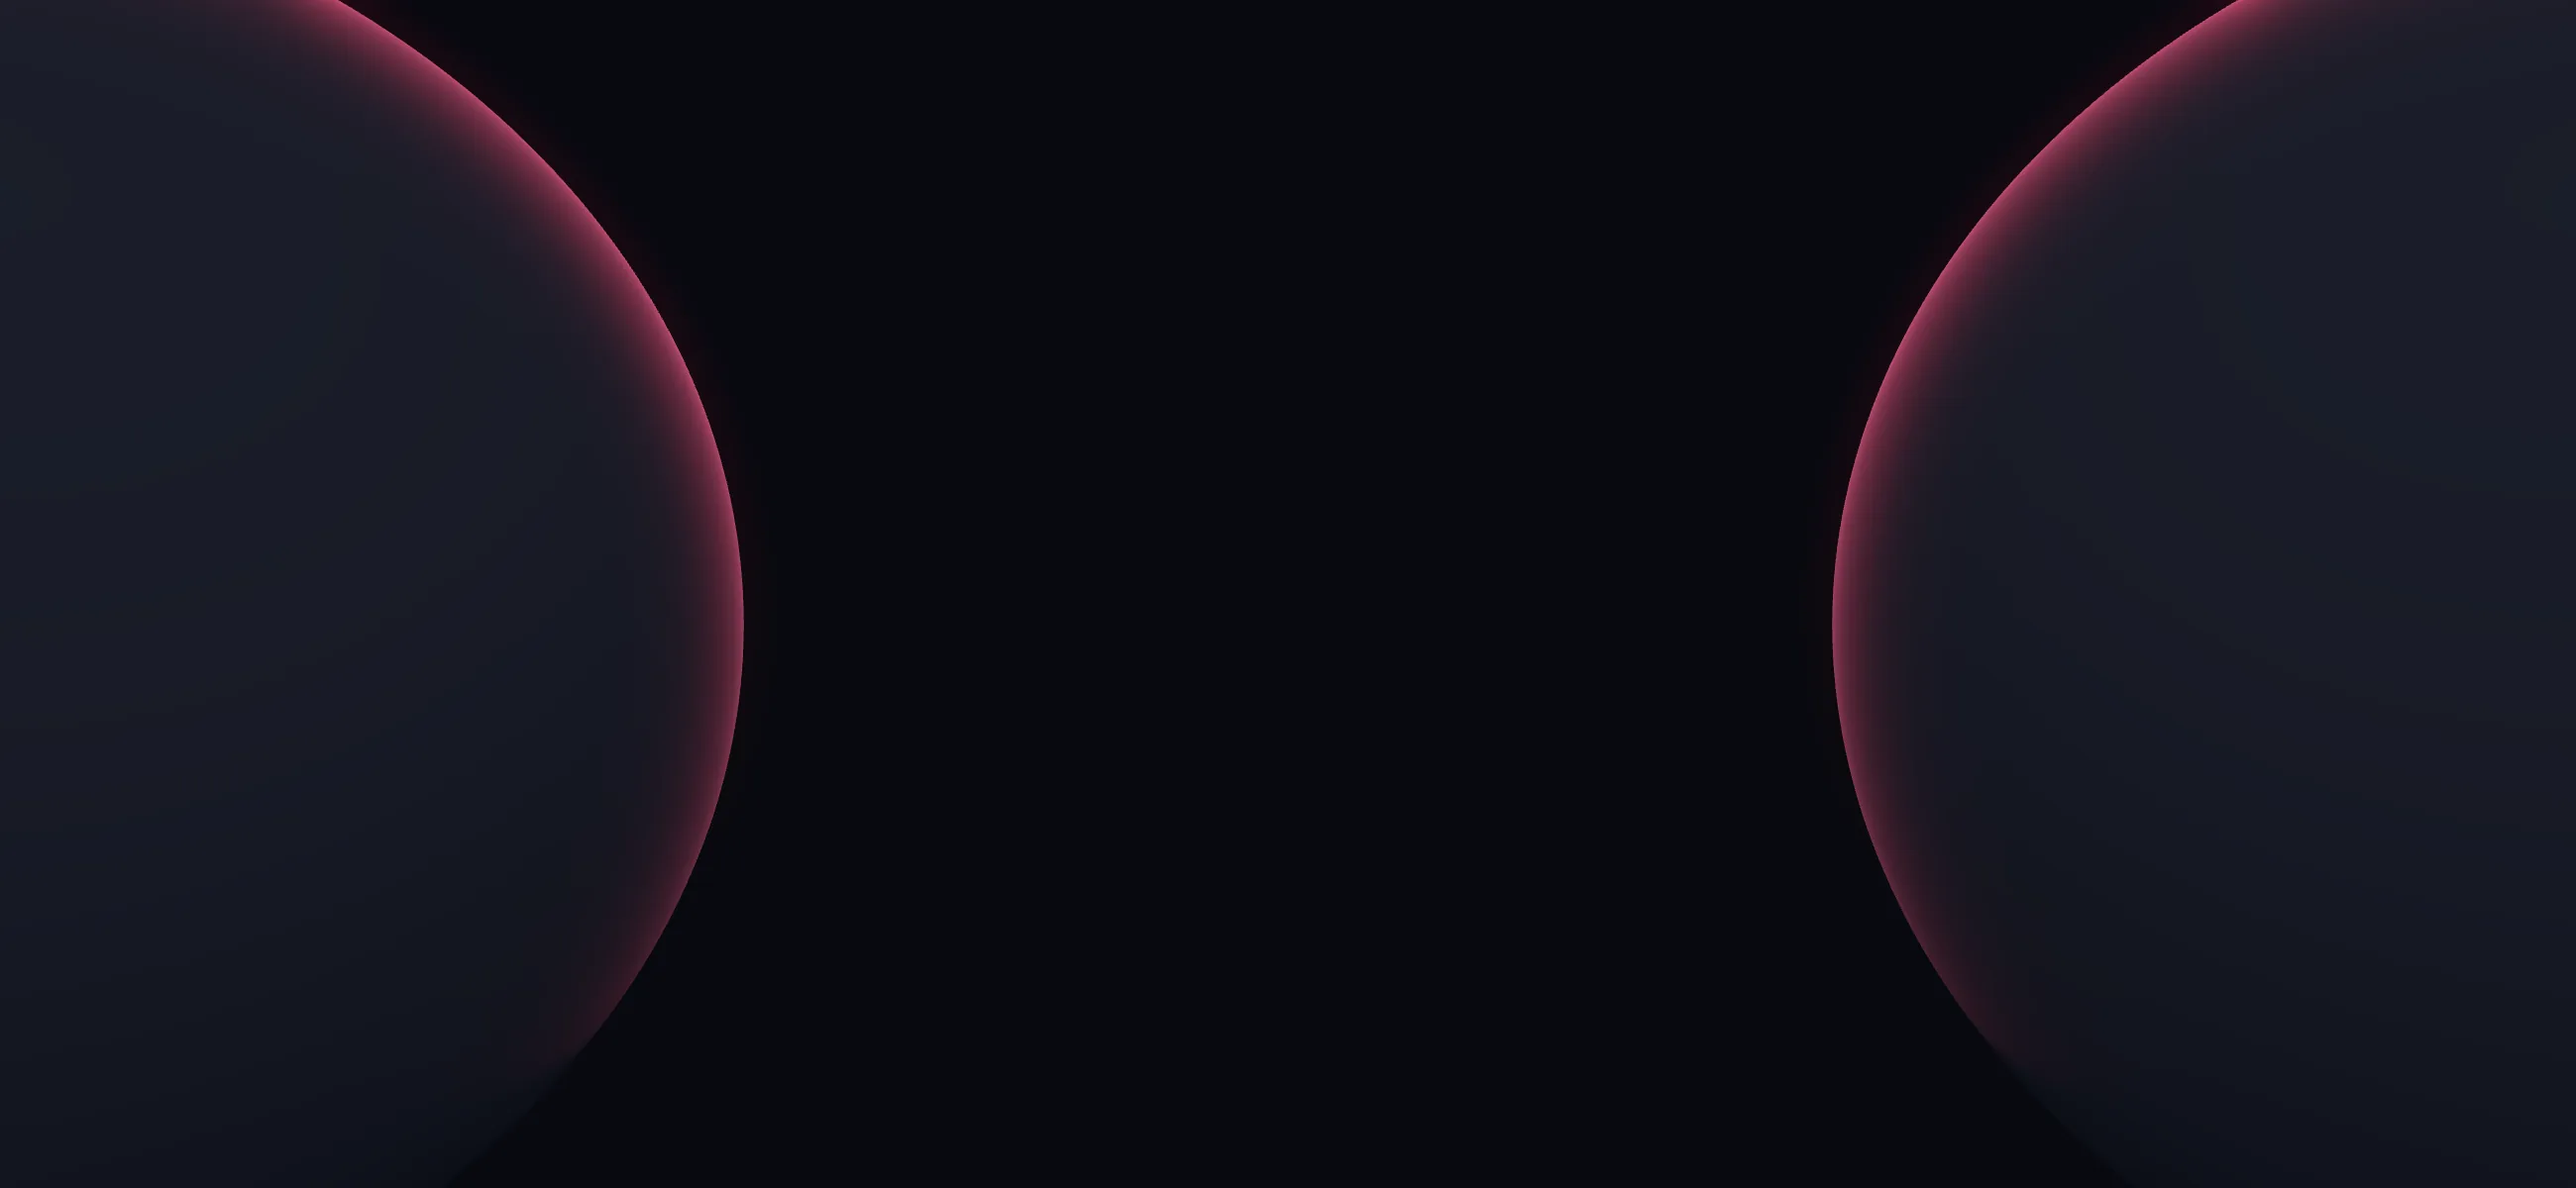
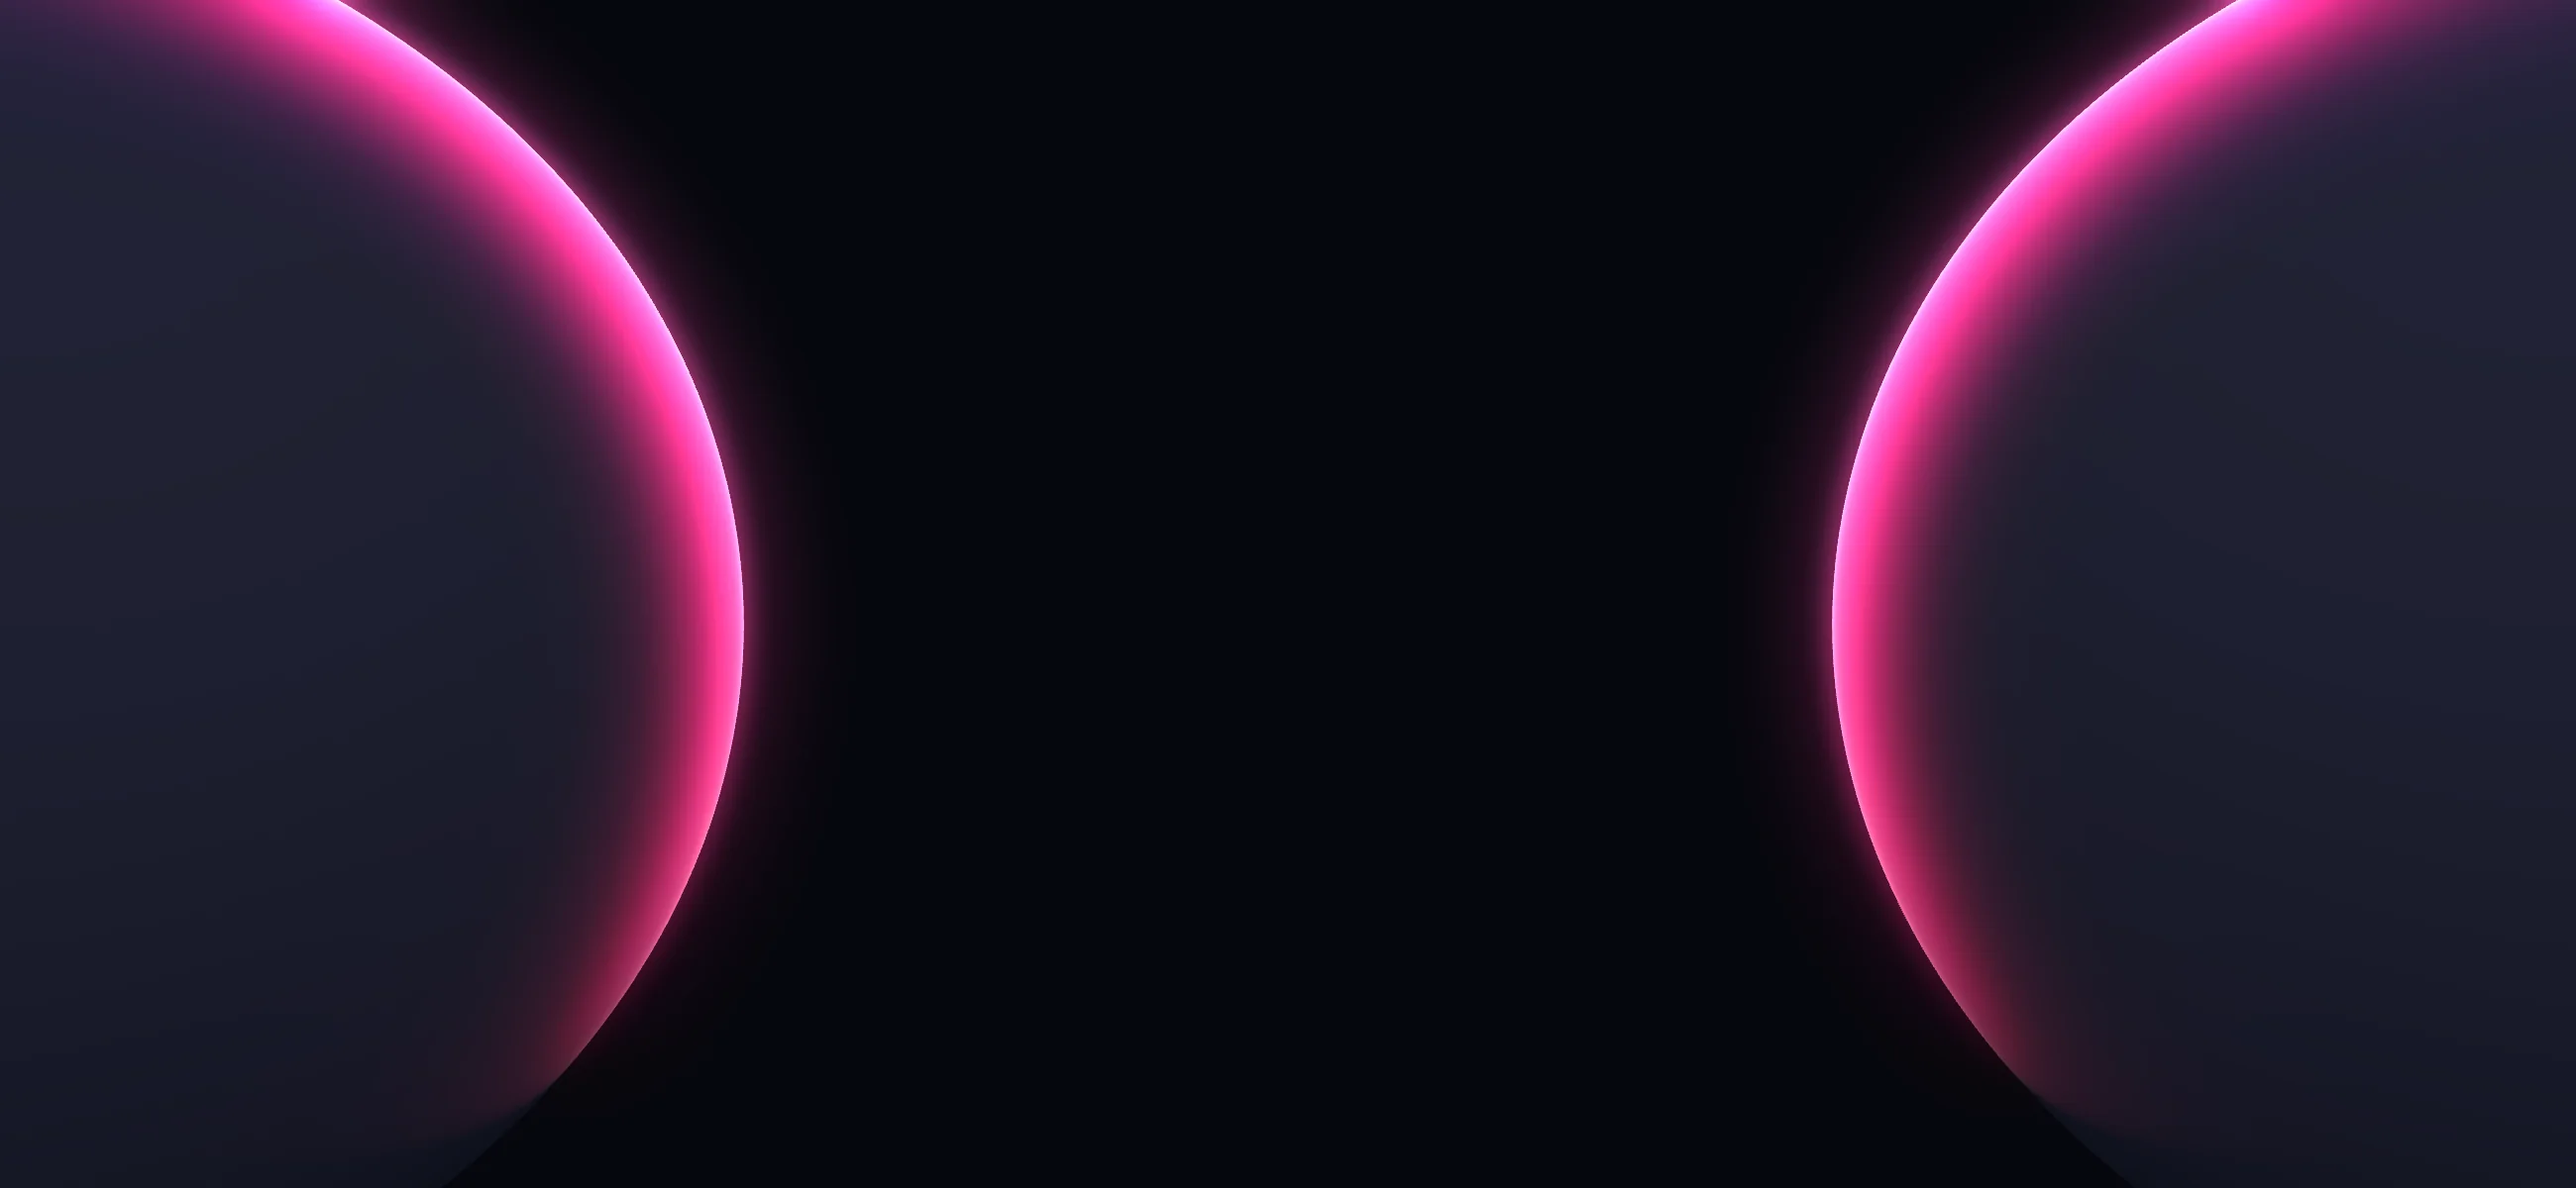
Витрина: карточки рубашкой и без вращения, ярче неон и рендеры, луч света, блик по стеклу, отражения подиумов, без шва внизу

Changed region(s): [[0.6854, 0.0, 1.0, 0.925], [0.0, 0.0, 0.3115, 0.925]]

diff --git a/site/app.js b/site/app.js
@@ -408,7 +408,6 @@
   // ---------------------------------------------------------------
   if ($("#cfTrack")) (() => {
   const cfTrack = $("#cfTrack");
-  const hero = (u) => WORKS.find((w) => w.c.universe === u.id && w.rarity === "special") || WORKS.find((w) => w.c.universe === u.id);
   const count = (u) => WORKS.filter((w) => w.c.universe === u.id).length;
   // Коллекций мало — повторяем ленту трижды, чтобы листать по кругу и видеть соседей с обеих сторон
   const N = UNIVERSES.length, LOOPS = 3;
@@ -418,6 +417,7 @@
     <div class="cf__slide" role="group" aria-label="Коллекция ${esc(u.name)}" ${Math.floor(i / N) === 1 ? "" : 'aria-hidden="true"'}>
       <div class="cf__item">
         <div class="flip"></div>
+        <span class="cf__glare" aria-hidden="true"></span>
         <span class="cf__label">${esc(u.short || u.name)}</span>
         <span class="cf__base" aria-hidden="true"></span>
       </div>
@@ -427,11 +427,10 @@
   // по внешнему, и если двигать его, они уезжают вместе с карточками — лента застревает
   const cfItems = cfSlides.map((sl) => sl.firstElementChild);
   const cfFlips = cfSlides.map((sl, i) => {
-    const u = SHOW[i], w = hero(u);
-    // Центральную можно покрутить пальцем или мышью и увидеть переход кадров; отпустил — встаёт лицом
-    const f = Flip($(".flip", sl), { rest: -0.6, springBack: true, hover: false, canDrag: () => sl.classList.contains("is-center") });
-    if (w) f.setImages(w.a, w.b, Math.abs(i - START) > 1);
-    else f.setImages(u.back, u.back, Math.abs(i - START) > 1); // у серии ещё нет артов — показываем её обложку
+    const u = SHOW[i];
+    // В витрине карточки стоят рубашкой (обложкой серии) и не крутятся — только листаются
+    const f = Flip($(".flip", sl), { interactive: false, rest: -0.6 });
+    f.setImages(u.back, u.back, Math.abs(i - START) > 1);
     f.setBack(u.back);
     return f;
   });
@@ -533,7 +532,7 @@
   let cfDrag = null, cfMoved = false;
   cfTrack.addEventListener("pointerdown", (e) => {
     cfMoved = false;
-    if (e.pointerType !== "mouse" || e.button > 0 || e.target.closest(".cf__slide.is-center .flip")) return;
+    if (e.pointerType !== "mouse" || e.button > 0) return;
     cfDrag = { x: e.clientX, left: cfTrack.scrollLeft };
   });
   addEventListener("pointermove", (e) => {
@@ -565,48 +564,15 @@
     near === cfCenter ? cfOpen() : cfGo(near);
   });
 
-  // Каждая коллекция, впервые оказавшись в центре, один раз оборачивается на подиуме
-  // и останавливается. Дальше её можно чуть повернуть пальцем — небольшой свайп
-  // наклоняет карточку и пружинит обратно, свайп дальше листает.
-  // Пока ничего не двигается, кадры не перерисовываются вовсе.
-  const SPIN_MS = 2600, SPIN_DELAY = 500;
-  const ease = (t) => (t < 0.5 ? 4 * t * t * t : 1 - (-2 * t + 2) ** 3 / 2);
-  const spun = new Set();
-  let spinRaf = null, spinIdle = null, cfScrollAt = 0;
-  function spinOnce(i) {
-    const id = SHOW[i].id;
-    if (reduceMotion || spun.has(id)) return;
-    spun.add(id);
-    let t0 = null;
-    const step = (t) => {
-      t0 ??= t + SPIN_DELAY;
-      const k = (t - t0) / SPIN_MS;
-      // Начали листать — оборот прерываем, карточка встаёт лицом
-      // Человек сам крутит карточку — автооборот уступает ему
-      if (cfFlips[i].el.classList.contains("is-dragging")) return void (spinRaf = null);
-      if (cfCenter !== i || t - cfScrollAt < 120) {
-        if (k <= 0) spun.delete(id); // ещё не начала оборачиваться — обернётся в следующий раз
-        return cfFlips[i].spin(0), (spinRaf = null);
-      }
-      cfFlips[i].spin(k <= 0 || k >= 1 ? 0 : ease(k) * 360);
-      spinRaf = k < 1 ? requestAnimationFrame(step) : null;
-    };
-    cancelAnimationFrame(spinRaf);
-    spinRaf = requestAnimationFrame(step);
-  }
-  // Лента остановилась: переносимся в среднюю копию и оборачиваем новую коллекцию
-  cfTrack.addEventListener("scroll", () => {
-    cfScrollAt = performance.now();
-    clearTimeout(spinIdle);
-    spinIdle = setTimeout(() => { cfRecenter(); spinOnce(cfCenter); }, 220);
-  }, { passive: true });
+  // Лента остановилась — если ушли в крайнюю копию, переносимся в среднюю
+  let cfIdle = null;
+  cfTrack.addEventListener("scroll", () => { clearTimeout(cfIdle); cfIdle = setTimeout(cfRecenter, 220); }, { passive: true });
 
   // После того как весь скрипт отработал — встаём на стартовую коллекцию
   requestAnimationFrame(() => {
     cfMeasure();
     cfGo(START, false);
     cfLayout();
-    setTimeout(() => spinOnce(cfCenter), 300);
   });
   })();
 

diff --git a/site/styles.css b/site/styles.css
@@ -1395,3 +1395,68 @@ body { background: radial-gradient(900px 600px at 50% -10%, rgba(255, 50, 100, .
 /* Держатель стоит на крышке подиума: подиум ниже и позади пластины */
 .cf__base { bottom: calc(var(--cw) * -.6); z-index: -2; }
 .cf__track { padding-bottom: calc(var(--cw) * .7); }
+
+/* ============================================================
+   Свет на максимум: луч сверху, блик по стеклу, отражения в полу
+   ============================================================ */
+:root { --hot: #ff2d6f; --glow: rgba(255, 40, 110, .75); }
+/* Карточки в витрине не крутятся — свайп по любой из них листает ленту */
+.cf__slide.is-center .flip, .cf__slide .flip { touch-action: pan-x pan-y; cursor: pointer; }
+
+/* Луч прожектора сверху на центральную карточку */
+.cf::before {
+  content: ""; position: absolute; left: 50%; top: -6%; width: calc(var(--cw) * 2.6); height: 92%; z-index: 0; pointer-events: none;
+  transform: translateX(-50%);
+  background: linear-gradient(180deg, rgba(255, 120, 160, .32), rgba(255, 60, 120, .1) 55%, transparent 85%);
+  clip-path: polygon(38% 0, 62% 0, 100% 100%, 0 100%);
+  -webkit-mask: radial-gradient(70% 100% at 50% 0, #000 40%, transparent 85%); mask: radial-gradient(70% 100% at 50% 0, #000 40%, transparent 85%);
+}
+.cf__track { position: relative; z-index: 1; }
+
+/* Неон держателя — насыщеннее */
+.cf__slide.is-center .cf__item::before {
+  border: 1.5px solid rgba(255, 120, 165, .9);
+  box-shadow: inset 0 1px 0 rgba(255, 210, 225, .5), inset 0 0 22px rgba(255, 40, 110, .28), 0 0 22px rgba(255, 40, 110, .75), 0 0 60px rgba(255, 40, 110, .45), 0 0 120px rgba(255, 40, 110, .22);
+}
+.cf__slide.is-center .face--front { box-shadow: 0 0 0 2px #ff5c8d, 0 0 18px rgba(255, 40, 110, 1), 0 0 36px rgba(255, 40, 110, .5); }
+.cf__label { color: #ffc566; text-shadow: 0 0 12px rgba(255, 190, 90, .75), 0 0 2px rgba(255, 220, 150, .9); }
+
+/* Блик по стеклу держателя: косая полоса света, изредка проходит по пластине */
+.cf__glare { position: absolute; left: -6%; right: -6%; top: -4%; bottom: calc(var(--cw) * -.22); border-radius: 9% / 6.5%; overflow: hidden; pointer-events: none; z-index: 3; opacity: 0; }
+.cf__slide.is-center .cf__glare { opacity: 1; }
+.cf__glare::before {
+  content: ""; position: absolute; top: -20%; bottom: -20%; width: 38%; left: -60%;
+  background: linear-gradient(100deg, transparent, rgba(255, 255, 255, .0) 20%, rgba(255, 255, 255, .28) 48%, rgba(255, 210, 230, .12) 56%, transparent 80%);
+  transform: skewX(-18deg); animation: glare 6.5s ease-in-out infinite;
+}
+@keyframes glare { 0%, 62% { transform: translateX(0) skewX(-18deg); } 100% { transform: translateX(520%) skewX(-18deg); } }
+/* Статичный блик-отражение в верхнем углу стекла */
+.cf__glare::after { content: ""; position: absolute; inset: 0; background: linear-gradient(135deg, rgba(255, 255, 255, .16), transparent 22%); }
+
+/* Отражение подиума в глянцевом полу */
+.cf__base::after {
+  content: ""; position: absolute; left: 0; right: 0; top: 92%; height: 100%; pointer-events: none;
+  background: inherit; transform: scaleY(-.7); transform-origin: top; opacity: .32;
+  -webkit-mask: linear-gradient(to bottom, #000, transparent 70%); mask: linear-gradient(to bottom, #000, transparent 70%);
+}
+/* Розовое пятно света на полу под центральным подиумом */
+.cf__slide.is-center .cf__base { filter: drop-shadow(0 12px 26px rgba(255, 40, 110, .55)); }
+
+/* Заголовок и точки — ярче */
+.hero__title { text-shadow: 0 0 18px rgba(255, 90, 140, .35); }
+.hero__title::before, .hero__title::after { height: 2px; box-shadow: 0 0 10px rgba(255, 40, 110, 1), 0 0 22px rgba(255, 40, 110, .6); }
+.cf__dots i.is-on { box-shadow: 0 0 12px rgba(255, 40, 110, 1), 0 0 24px rgba(255, 40, 110, .6); }
+.uni.is-on { box-shadow: 0 0 16px rgba(255, 190, 90, .55), 0 0 40px rgba(255, 170, 60, .25); }
+@media (prefers-reduced-motion: reduce) { .cf__glare::before { animation: none; } }
+/* Луч — мягкий, без жёстких краёв */
+.cf::before {
+  top: 0; height: 88%; width: calc(var(--cw) * 2.4); clip-path: none; -webkit-mask: none; mask: none;
+  background:
+    radial-gradient(22% 70% at 50% 0, rgba(255, 190, 210, .22), transparent 70%),
+    radial-gradient(48% 95% at 50% 0, rgba(255, 70, 130, .2), transparent 72%);
+}
+/* Запас снизу, чтобы свечение держателя и подиума не обрезалось краем ленты ровной линией */
+.cf__track { padding-bottom: calc(var(--cw) * 1.15); }
+/* Точки стоят рядом с витриной, а не внутри неё, поэтому отступ — в пикселях */
+.cf__dots { margin-top: 0; position: relative; z-index: 2; }
+@media (min-width: 861px) { .cf__dots { margin-top: -112px; } }

diff --git a/site/partials/head.html b/site/partials/head.html
@@ -4,4 +4,4 @@
   <!-- Шрифты грузятся без блокировки отрисовки -->
   <link rel="preload" as="style" href="https://fonts.googleapis.com/css2?family=Dela+Gothic+One&family=Oswald:wght@600;700&family=Golos+Text:wght@400;500;600;700&display=swap" onload="this.onload=null;this.rel='stylesheet'">
   <noscript><link rel="stylesheet" href="https://fonts.googleapis.com/css2?family=Dela+Gothic+One&family=Oswald:wght@600;700&family=Golos+Text:wght@400;500;600;700&display=swap"></noscript>
-  <link rel="stylesheet" href="styles.css?v=48">
+  <link rel="stylesheet" href="styles.css?v=54">

diff --git a/site/partials/scripts.html b/site/partials/scripts.html
@@ -1,3 +1,3 @@
 <script src="data.js?v=9" defer></script>
 <script src="catalog.js" defer></script>
-<script src="app.js?v=35" defer></script>
+<script src="app.js?v=36" defer></script>
